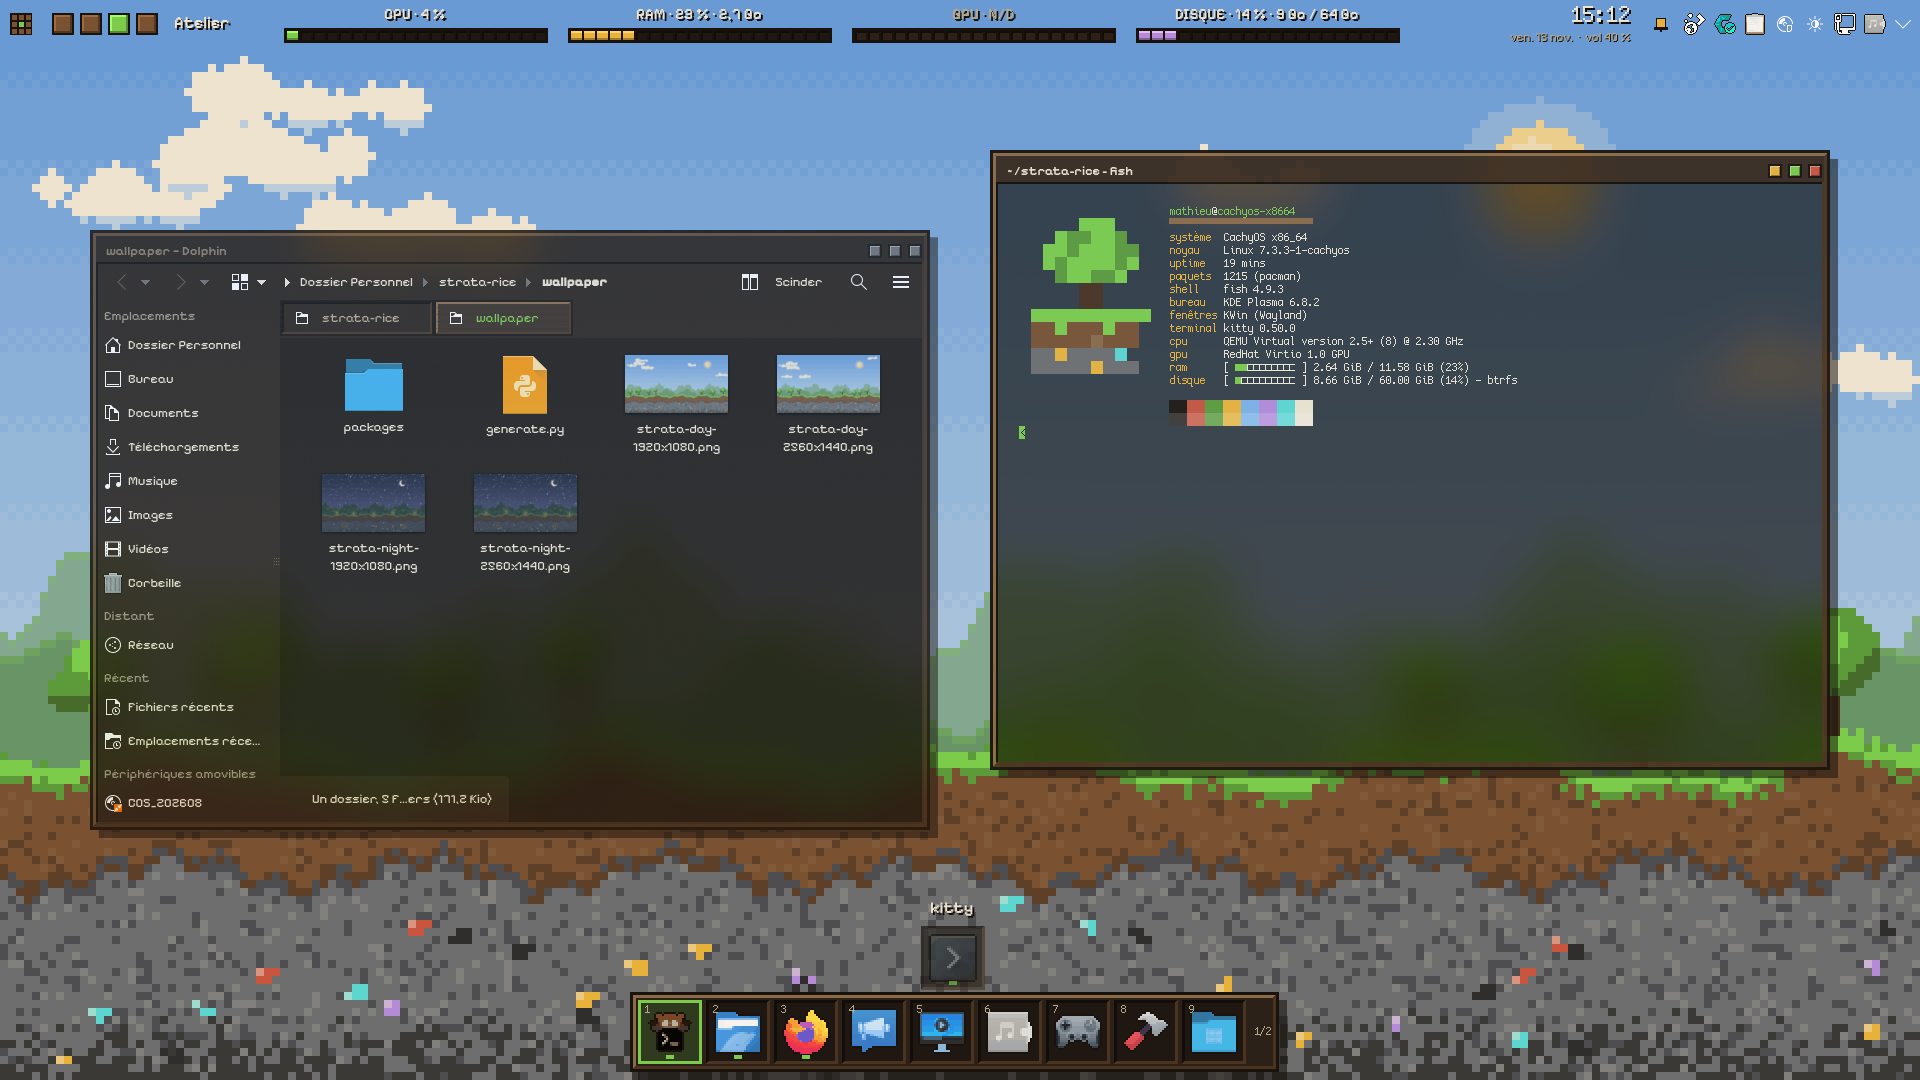
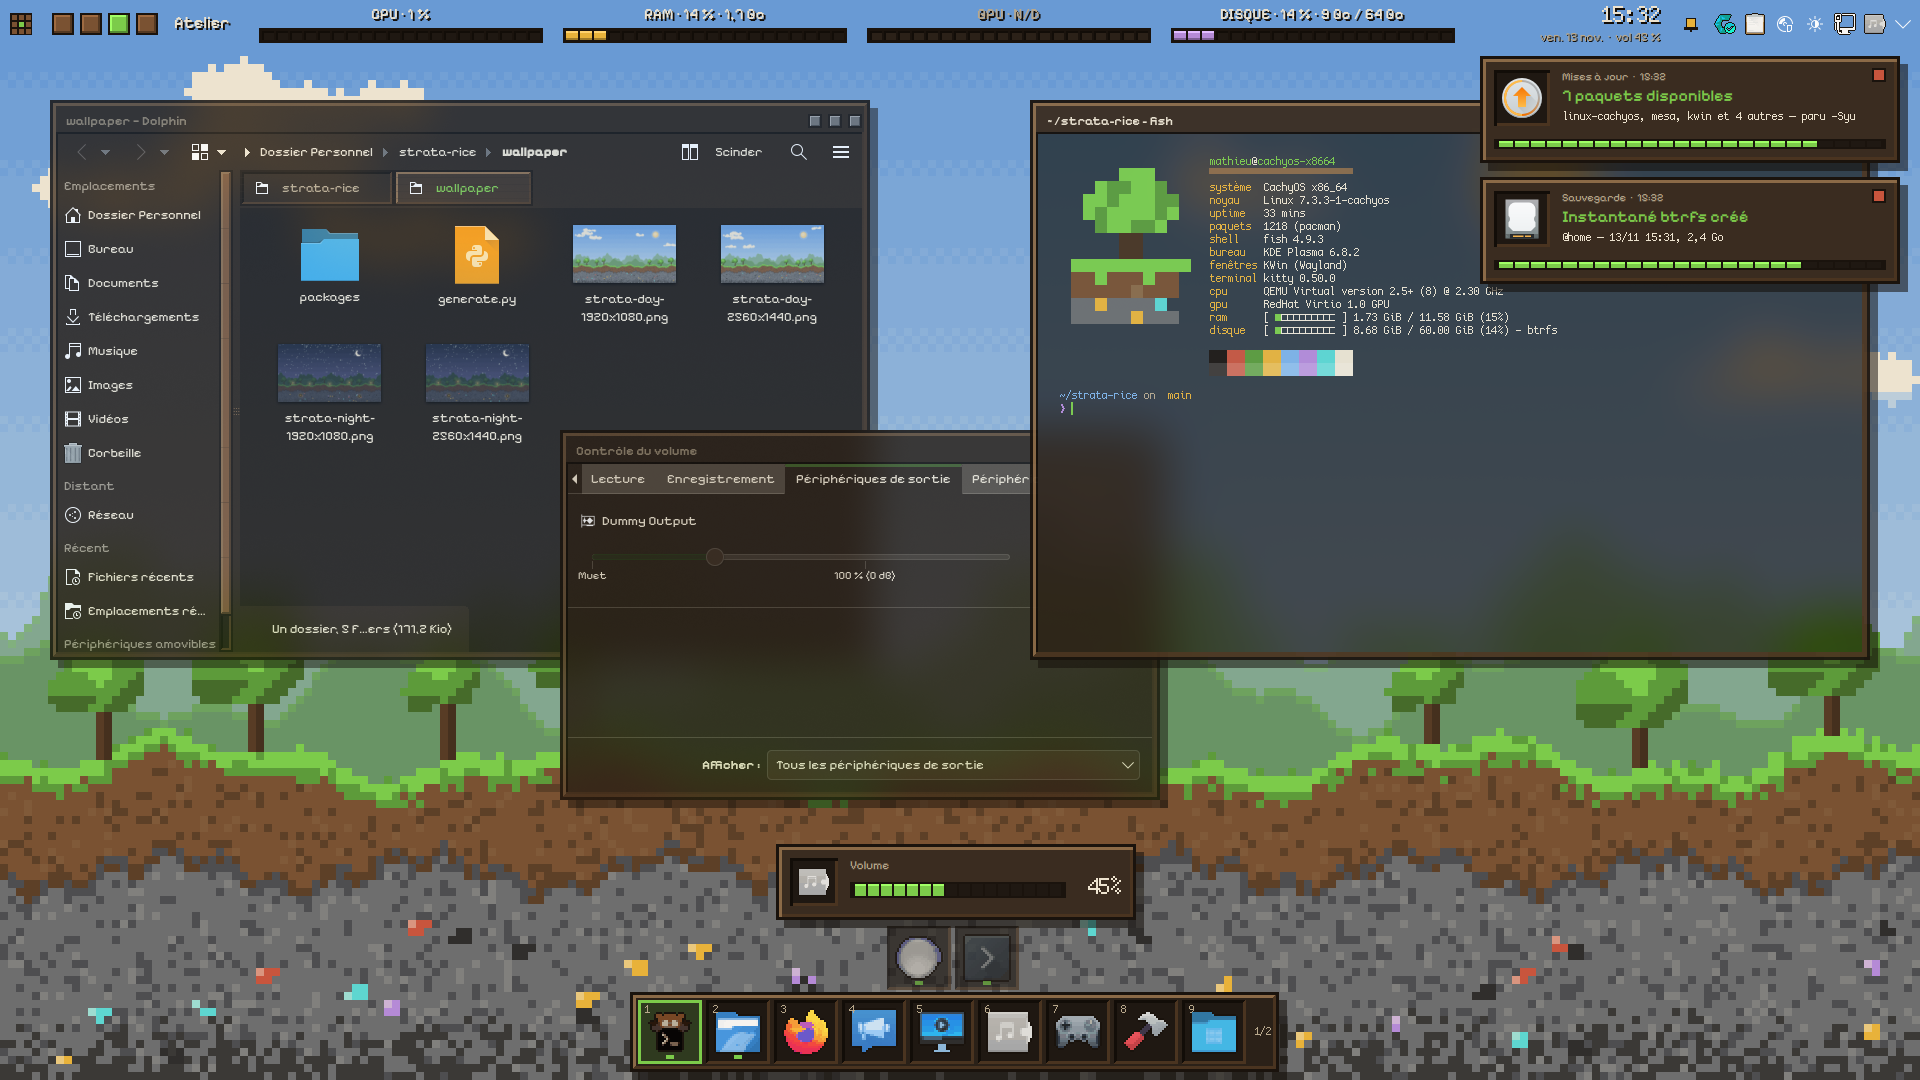
README : capture du bureau complète (notifications, OSD, barre de titre GTK, multi-hotbar) + splash et écran de verrouillage

diff --git a/README.md b/README.md
@@ -2,11 +2,13 @@
 
 Rice **original** inspiré des jeux de blocs (bois, herbe, terre, pierre, slots d'inventaire). Aucune ressource issue d'un jeu existant : textures, polices, icônes et fonds sont dessinés ou générés pour Strata.
 
-![Bureau Strata : barres d'infos, hotbar, kitty + fastfetch, Dolphin](docs/screenshot.png)
+![Bureau Strata : barres d'infos (bureaux, CPU, RAM, GPU, disque, heure), notifications avec jauge, kitty + fastfetch, Dolphin, appli GTK avec la barre de titre Strata, OSD de volume, hotbar à deux rangées](docs/screenshot.png)
 
 ![Lanceur « inventaire » : onglets par catégorie, recherche, grille de 9 colonnes, rappel de la hotbar](docs/inventory.png)
 
 ![Écran de connexion SDDM : paysage de nuit, panneau en bois, bouton « Se connecter »](docs/sddm.png)
+
+![Splash « Chargement du monde… » et écran de verrouillage](docs/splash-lock.png)
 
 ## Installation
 
